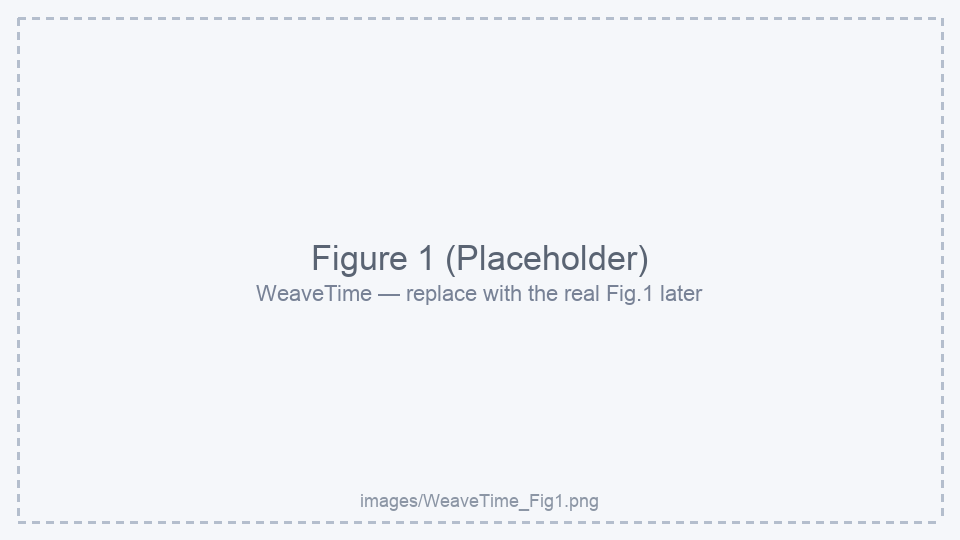
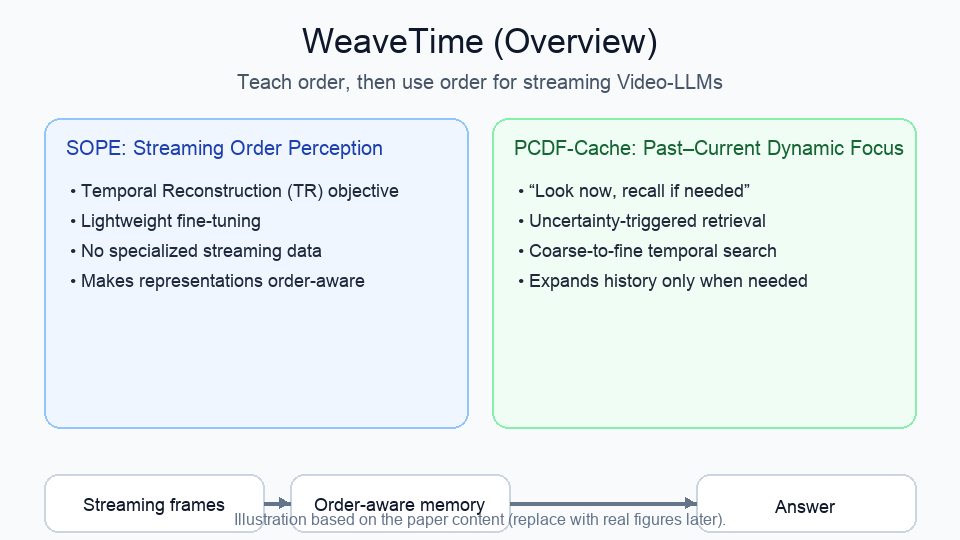
cvpr

diff --git a/_pages/WeaveTime.md b/_pages/WeaveTime.md
@@ -75,28 +75,76 @@ author_profile: false
     </a>
   </p>
 
-  <img class="ewo-teaser" src="/images/WeaveTime_Fig1.png" alt="WeaveTime teaser" style="max-width: 960px; width: 100%;">
+  <img class="ewo-teaser" src="/images/weavetime.png" alt="WeaveTime teaser" style="max-width: 960px; width: 100%;">
 </div>
 
 ## Abstract
 
-TBA.
+Streaming video is fundamentally time-causal: frames arrive sequentially, the “present” is seen once, the “past” accumulates into memory, and the “future” is unavailable. However, current Video-LLMs are often **time-agnostic**, treating videos as an unordered bag of evidence. This leads to two failures in streaming: **Temporal Order Ambiguity** (attending to semantically similar but temporally mismatched evidence) and **Past–Current Focus Blindness** (indiscriminate use of ever-growing memory).
+
+We propose **WeaveTime**, a simple and model-agnostic framework that *first teaches order and then uses order*: (1) **SOPE** (Streaming Order Perception Enhancement) trains order-aware representations via a lightweight **Temporal Reconstruction** objective, and (2) **PCDF-Cache** (Past–Current Dynamic Focus Cache) performs **uncertainty-triggered, coarse-to-fine temporal retrieval**, expanding history only when needed. Plugged into strong backbones (e.g., Qwen2-VL-7B and LLaVA-OV-7B) without architectural changes, WeaveTime improves streaming performance while keeping latency/memory stable.
 
 ## Overview
 
-<figure class="ewo-figure">
-  <div class="ewo-ph" aria-label="Figure placeholder">
-    <img class="ewo-teaser" src="/images/WeaveTime_Fig1.png" alt="WeaveTime figure placeholder" style="max-width: 960px; width: 100%;">
-  </div>
-  <figcaption class="ewo-caption">Figure 1. Placeholder (replace with the real figure later).</figcaption>
-</figure>
+<div class="ewo-grid">
+  <figure class="ewo-figure">
+    <div class="ewo-ph" aria-label="WeaveTime overview figure">
+      <img class="ewo-teaser" src="/images/WeaveTime_Fig1.png" alt="WeaveTime overview" style="max-width: 960px; width: 100%;">
+    </div>
+    <figcaption class="ewo-caption">Figure 1. Overview of WeaveTime (illustration).</figcaption>
+  </figure>
+
+  <figure class="ewo-figure">
+    <div class="ewo-ph" aria-label="Failure modes figure">
+      <img class="ewo-teaser" src="/images/WeaveTime_Fig2.png" alt="Two failure modes" style="max-width: 960px; width: 100%;">
+    </div>
+    <figcaption class="ewo-caption">Figure 2. Two failure modes in streaming caused by time-agnosticism (illustration).</figcaption>
+  </figure>
+</div>
+
+## Motivation: Why Time-Agnosticism Hurts Streaming
+
+In offline video QA, a model can freely attend over the entire clip. In streaming, it cannot: the future is hidden, and the past grows without bound. If a Video-LLM does not explicitly model temporal order, two issues show up frequently:
+
+- **Temporal Order Ambiguity**: it uses evidence from the *wrong time* (semantically similar frames but mismatched order).
+- **Past–Current Focus Blindness**: it either over-relies on past memory (even when the answer is in the current frame) or fixates on the present (even when historical context is required).
+
+## Method
+
+WeaveTime follows a simple recipe:
+
+### 1) SOPE: Streaming Order Perception Enhancement (Temporal Reconstruction)
+
+We add a lightweight **Temporal Reconstruction (TR)** objective to instill *order-aware representations* with minimal fine-tuning. In practice, this can be implemented as an “order reasoning” sub-question that is appended before the original QA query, so the LLM can reuse intermediate computations.
+
+### 2) PCDF-Cache: Past–Current Dynamic Focus Cache
+
+After order perception is established, PCDF-Cache enforces a **“look now, recall if needed”** principle:
+
+- Use only the **current** context when the model is confident.
+- When uncertainty increases (e.g., higher entropy), trigger **coarse-to-fine retrieval** to expand and narrow the temporal search over the past.
+
+This yields efficient context expansion aligned to the query’s needs instead of rescanning the full history every step.
+
+## Contributions (from the paper)
+
+1. Diagnose **Time-Agnosticism** in current Video-LLMs and show that disrupting temporal order leads to limited degradation, suggesting reliance on spatiotemporal shortcuts rather than causal reasoning.
+2. Propose **WeaveTime**, a Video-LLM-agnostic, plug-and-play framework for streaming VQA that does not require specialized streaming data.
+3. Introduce **SOPE** via a lightweight **Temporal Reconstruction** auxiliary task to instill order-aware representations with minimal fine-tuning.
+4. Design **PCDF-Cache**, an uncertainty-aware, coarse-to-fine temporal retrieval mechanism for selective and efficient use of history under time-causal constraints.
+5. Demonstrate consistent gains across representative streaming benchmarks (e.g., **OVO-Bench** and **Streaming-Bench**) on strong backbones (e.g., **Qwen2-VL** and **LLaVA-OV**).
+
+## Experiments (from the paper)
+
+WeaveTime is designed to be **plug-and-play**: it can be added on top of existing Video-LLM backbones (e.g., Qwen2-VL-7B and LLaVA-OV-7B) without architectural changes, and is evaluated on representative streaming benchmarks including **OVO-Bench** and **Streaming-Bench**.
 
 ## TODO
 <ul class="ewo-todo">
+  <li class="completed">add abstract</li>
+  <li class="completed">add method overview</li>
   <li>add paper PDF link</li>
   <li>add arXiv link</li>
   <li>add code link</li>
-  <li>add abstract and key results</li>
 </ul>
 
 ## BibTeX
@@ -109,4 +157,3 @@ TBA.
   year      = {2026}
 }
 ```
-

diff --git a/_pages/about.md b/_pages/about.md
@@ -38,8 +38,8 @@ I am honored to work in [SooLab](https://github.com/SooLab) during my master's s
 <div class='paper-box'>
   <div class='paper-box-image'>
     <div class="badge">CVPR2026</div>
-    <!-- 替换为 Fig 1 图片：将图片保存为 images/WeaveTime_Fig1.png -->
-    <img src='images/WeaveTime_Fig1.png' alt="WeaveTime Fig 1" width="100%">
+    <!-- WeaveTime teaser image (stored in images/weavetime.png) -->
+    <img src='images/weavetime.png' alt="WeaveTime Fig 1" width="100%">
   </div>
   <div class='paper-box-text' markdown="1">
 
